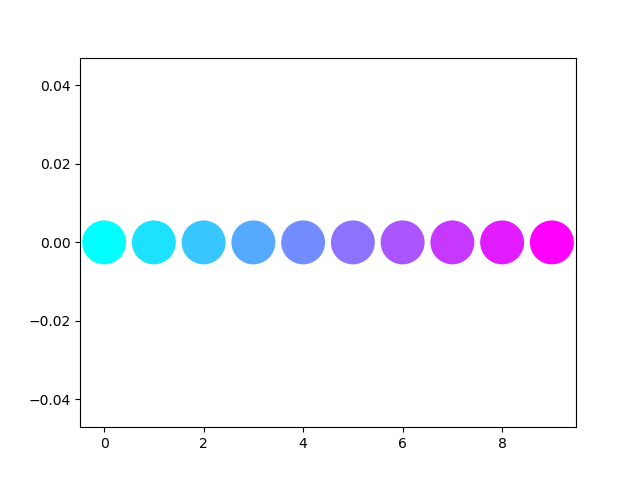
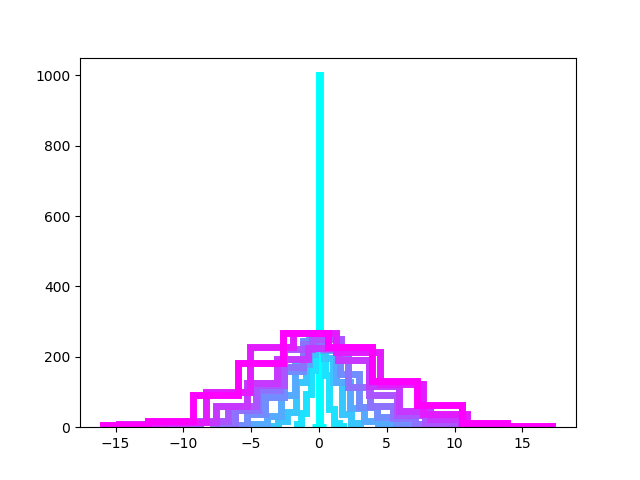
better hex fig

diff --git a/hex_gradient.py b/hex_gradient.py
@@ -42,13 +42,13 @@ if __name__ == '__main__':
 
         print(c)
 
-        # for i, sd in enumerate(np.linspace(0, 5, g_len)):
-        # 	x = [rnd.gauss(0,sd) for a in np.arange(1000)]
-        # 	pl.hist(x, histtype='step', lw=2, color=c[i])
-        #
-        # pl.show()
-
-        x = np.arange(0, g_len, 1)
-        y = [0]*g_len
-        pl.scatter(x, y, c=c, s=1000, linewidths = 0)
+        for i, sd in enumerate(np.linspace(0, 5, g_len)):
+        	x = [rnd.gauss(0,sd) for a in np.arange(1000)]
+        	pl.hist(x, histtype='step', lw=5, color=c[i])
+        
         pl.show()
+
+        # x = np.arange(0, g_len, 1)
+        # y = [0]*g_len
+        # pl.scatter(x, y, c=c, s=1000, linewidths = 0)
+        # pl.show()
